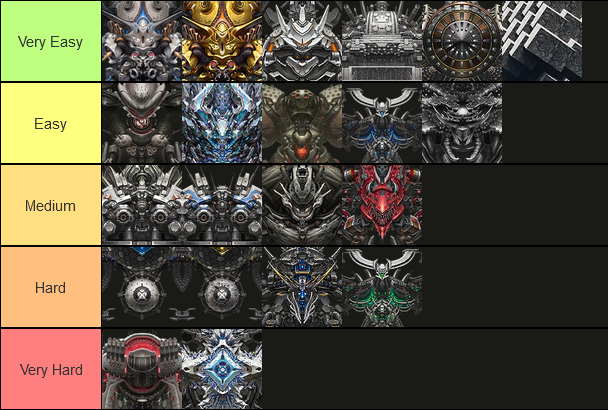
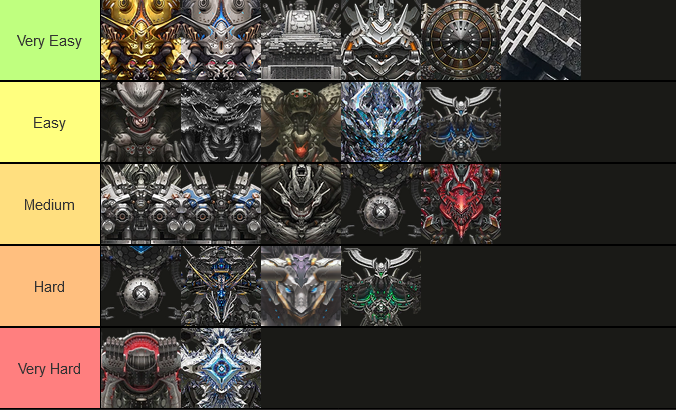
May Changes including March after Late Game

diff --git a/docs/lategame.md b/docs/lategame.md
@@ -1,10 +1,11 @@
 # **Late Game**  
 
-**This will be a pretty quick section,** **as the Late Game stage happens between the time you reach synchro level 241+ and when you clear the Chapter 22-36 Boss <span class="color-red">Nihilister</span>,** **a second time**. **This then unlocks the new Interception, the [Anomaly](#anomaly-interception-ai) difficulty.**
+The Late Game stage is between the time you reach synchro level 241+ until Chapter 22-36 Boss <span class="color-red">Nihilister</span>, is defeated a second time. After that, it's the end game, when the new Interception, [Anomaly](#anomaly-interception-ai), is unlocked. 
 
 ### **Mother Whale, Chapter 21 Boss** 
 
-You probably didn’t feel any real challenge, at least not up until now. Synchro levels or combat power won't solve this one. Meet the **Mother Whale**, the second hardest boss in the game. This boss **needs** you to play manually.  
+You probably didn’t face any real challenge, not up until now. Synchro levels or combat power won't solve this one. Meet the **Mother Whale**, the second most manual heavy boss in the game. **This boss will force you to play manually.**
+
 
 ![motherwhale](media/motherwhale.png ':size=300 :no-zoom')
 
@@ -81,6 +82,8 @@ Elemental shield is a mechanic of Raptures that protects themselves from Nikkes 
 
 As introduced by Mother Whale, elemental shields will be commonly found on later stages in the game, mainly in Raids. Unlike Mother Whale's elemental shield, which can be removed by killing the mobs she summons. Elemental shields can also be destroyed by breaking the QTE with their respective elemental weakness. This makes elemental weakness very important for teambuilding in Raids when you are bringing specific Nikkes. Furthermore, elemental damage is a crucial stat for later stages and in Raids to deal even more damage. 
 
+![Crystal Chamber Elemental QTE](media/elementalqte.png)
+
 Elemental Damage is important because this stat is one of the most valuable in OL (Overload) gears. You can improve your damage by up to 116% just from the OL stats (29% per gear) alone. Pairing that with cubes that can improve your Elemental Damage by 8.48% (level 5 cube) to 19% (level 15 cube) respectively. The game has a lot of calculations for Elemental Damage that it even has its own separate damage calculation/formula.
 
 As per default, your Nikke will receive 10% Elemental Damage bonus stat, which then can be improved by equipping cubes and getting OL (Overload) stats, which on paper shows that you can receive up to 145% of Elemental Damage. These stats exclude the skills of the Nikke. This is why Elemental Damage is a big help when you’re trying to push as far as you can in campaign stages (normal/hard) with deficits.
@@ -107,7 +110,7 @@ Range: Far
 
    *Spawns Glass Slippers to buff his DEF (Courtesy: Kontossis on youtube)*
 
-   It comes back and **<span class="color-red">buffs itself with 360% DEF from the slippers</span>**. This defense buff makes you hit like a wet noodle. First, it shoots a crystal that deals AoE damage, then it will spawn the slippers and go into attack mode. You can tell when the slippers are going to attack when they start glowing blue. They have to be destroyed by **<span class="color-red">a single strong shot</span>.** Repeat this 4 times until all the slippers are destroyed. Each shot removes 1 layer (90%) of the DEF buff.
+   It comes back and **<span class="color-red">buffs itself with 360% ((90*4)%) DEF from the slippers</span>**. This defense buff makes you hit like a wet noodle. First, it shoots a crystal that deals AoE damage, then it will spawn the slippers and go into attack mode. You can tell when the slippers are going to attack when they start glowing blue. They have to be destroyed by **<span class="color-red">a single strong shot</span>** to remove 1 layer (90%) of DEF buff. Repeat this 4 times until all the slippers are destroyed. Each shot removes 1 layer (90%) of the DEF buff.
 
    If you can’t destroy slippers, just shoot to stun it because slippers attack mode deals huge damage to your Nikke (not recommended if your Nikke is CP high diff).   
      
@@ -180,37 +183,51 @@ The easiest boss that you encounter in AI. His main body is in the middle. His t
 
 1. **First phase**  
    Destroy the front tentacle as fast as you can. If you ignore this, he slaps all your Nikkes. The tentacles are tanky, but fortunately his front tentacle is a core, so you can deal bonus damage to it. The attack pattern will be:  
-   \- **Tentacle slaps, twice**  
+   \- **Tentacle slap, twice**  
+   Tentacle slap hits all Nikkes, and it pierces the cover, so if you bring an Electric Nikke, you have to destroy it because usually insta-death to Electric Nikke. You can deal bonus damage because the front tentacle part has a core. 
    \- **Throwing rocks**  
-   You can time Crown’s burst to block this attack, or if you don’t bring a shielder, just take cover.  
+   This attack lets Kraken throw rocks to your Nikke, but it doesn't pierce the cover. We suggest bringing a shielder Nikke like Crown/Tia to block these attacks, so you don’t have to take cover. Time your shielder burst to block this attack.
+   
+   If you don’t bring a shielder, but bring a healer, you can just tank this attack (if your healer isn’t electric). If you don’t bring shielder Nikke and healer, just take cover.
+
    \- **Elemental QTE**  
-   This attack sequence happens twice, after that, it will expose the core on his main body and dive. When he dives, special interruption.  
-     
-   In this phase, I suggest you aim for the front tentacle when they appear, core damage is your advantage to deal great damage.   
+   This attack can wipe all of your Nikke, so you have to destroy QTE. Manualling your Wind Nikke to aim when off burst.
+
+
+   In this phase, I suggest you aim for the front tentacle when they appear, core damage is your advantage to deal great damage. 
+
+
+   This attack sequence happens twice, after that, it will expose the core on his main body and dive. When he dives, special interruption.
 2. **Second phase**  
    Same as the first phase, but its front tentacle will be a lot squisher, but still needs full burst to destroy fast. Its back tentacle will shoot your Nikke so you have to destroy it too.   
      
-   What you do is aim on the core of the main body while destroying the front tentacle when he’s wiggling his tentacle. Destroy the back tentacle when off burst to prevent him shooting your Nikke. Back tentacle targets random Nikke so he may shoot your support or your main DPS, the problem is if you bring an Electric Nikke (usually Naga) then he decides to shoot down that Electric Nikke.
+   What you do is aim on the core of the main body while destroying the front tentacle when he is wiggling his tentacle. Destroy the back tentacle when off burst to prevent him shooting your Nikke. Back tentacle targets random Nikke so he may shoot your support or your main DPS, the problem is if you bring an Electric Nikke (usually Naga) then he decides to shoot down that Electric Nikke.
 
 **Team Building**  
 Burst 1 and 2 will be Liter and Crown, then you can choose Wind Burst 3 Nikke as main damage. 
 
 1. Sweaty: Scarlet Black Shadow with her assistant, Alice. Flex is Naga. If you bring Naga, you have to destroy all the parts.  
 2. Boomer Finger: Scarlet Black Shadow with Sakura: Bloom in Summer. Flex will be Naga. you can try Noir as an alternative Naga and make the run less sweaty.  
-3. SG team with Noir and Guilty works against this squid, with Blanc as healer. They can deals decent damage because of the big target of the main body.
+3. SG team with Noir and Guilty works against this squid, with Blanc as healer. They can deal decent damage because of the big target of the main body.
 
 **<span class="color-orange">Ultra</span>** 
 
 This Ultra has a destructible core unlike campaign counterparts, so his core isn’t permanent (because dev knows this boss is too biased as Red Hood’s punching bag). He never moves so basically acts like a punching bag for Pierce-type Nikkes. 
 
+Ultra parts can be hit using pierce by just hitting the core. You can deal damage 4 times by just hitting the core using piercers when his core and poison chamber parts are active.  And Ultra range is far, so perfect for snipers Nikke.
+
 **Attack Pattern**:
 
 **Phase 1:**
 
-- MG attacks, targets highest ATK Nikke  
+- MG attacks, targets highest ATK Nikke
+   Classic MG attack, but usually if your Nikke is well invested, this attack can’t hurt your Nikke. You can manually let the targeted Nikke take cover if not well invested or it targets Water Nikke.
 - QTE (Elemental Shield)  
+   If you ignore, Ultra will blow all your Nikke, dealing huge damage. Shoot QTE to cancel it.
 - AoE stun, can be blocked by shield  
+   This attack can be blocked by shield, timing your shield burst (Crown/Tia) when he’s ready to stomp.
 - Spits poison (DoT)
+   I suggest you taking cover because this DoT is no joke if you don’t bring a healer. This attack can kill your Water Nikke fast. 
 
 
 This attack occurs twice, then he sheds his skin and enters Special Interruption
@@ -218,16 +235,23 @@ This attack occurs twice, then he sheds his skin and enters Special Interruption
 **Phase 2:**
 
 - Flings poison if the parts aren’t destroyed (DoT)  
+   Destroy parts fast to cancel this attack, because DoT is not a joke when it hits Nikke. 
 - AoE stun  
+   Same as first, timing your shield
 - Spits poison (DoT)
+   Same as first phase too, take cover
 
-It will restore his core at phase 3, 5, 7 (need reference), so be prepared to manage your full burst for this. 
+It will restore his core at stages 2, 4, 6 and 8, so be prepared to manage your full burst for this. At stage 2, the respawning core overlaps the previous one (it’s the only time a respawning core overlaps the previous one). That means if the first core wasn’t destroyed by the time you hit stage 2, the core gets back to 100% hp. This only happens on stage 2. If you don’t destroy other stage cores in time, the next stage cores don’t overlap them. So if for example, you don’t destroy the stage 4 core by the time you hit stage 6 and then destroy it after you hit stage 6, the core will not respawn or get back to 100% hp so you lose one full core. 
+
+Stage 4 core is the second one that has two mechanics in it: first mechanic is if you don’t hit stage 4 within specific frame (when he starts charging his stun attack, he shouts, if you don’t get to stage 4 before his shout stops), the stage 4 core will still respawn but it will drop its max hp by 80-85% thus dropping your damage a lot. You can either stall his first triple QTE to delay his charging attack here if you don’t have the damage to get to stage 4 fast, or just damage race to stage 4 fast if you got the damage to not allow the core hp reduction (another option is to crit fish with Maxwell and hope her burst crits there). 
+
+The second mechanic of stage 4 core is that it, along with every other core (stage 6 and stage 8) and the sacs increase their HP by a lot so it gets a lot easier to shoot them without worrying you can accidentally destroy them with Red Hood or something before Maxwell bursts for example. His AoE spit poison attack can be tanked by a decent shielder up until stage 8. At stage 8, his damage increases enough that the spit breaks the shield so you need to take cover (awesome21snake: 2024).  
 
 You can put all Iron Nikkes in your team. For example, a team consists of Liter and Crown as burst 1 and 2, for burst 3 DPS, you pick Red Hood, then choose between Snow White or Maxwell (which have higher Elemental Damage OL line). For flex you can pick Helm: Aquamarine to amplify your team damage. If you need survival, you can take out one of the Iron-type Nikkes, for example Naga is a good choice for extra core damage.
 
 **<span class="color-purple">Mirror Container</span>**
 
-Basically it's the Mirror Container in Chapter 32 (read above), but easier. Core is permanent, so you can deal more damage. Glass Slippers only show up in 2 cycles. The most important difference is that **it will not restore Slippers that buff DEF by 360% when going into its Destruction Mode.** 
+Basically it's the Mirror Container in Chapter 32 (read above), but easier. Core is permanent, so you can deal more damage. Glass Slippers (replica) only shows up in 2 cycles. The most important difference is that **it will not restore Slippers that buff DEF by 360% when going into Destroy Mode. **
 
 Team Building gameplay will be the same as the Mirror Container Chapter 32 Boss. Ein with Anis: Sparkling Summer is your best choice against it. Example comp would be Burst 1 and 2 Rouge with Crown and if you want to optimize Anis’s damage, you can put Liter. Flex will be Exia with her Favorite Item or Naga.
 
@@ -239,12 +263,21 @@ This spider likes to call mobs during the fight. These mobs distract your Nikke 
 
 Hardest boss that you can encounter in AI. Has an attack that is unavoidable, so your iron supporters (Liter and Crown) have a high chance of dying. Has the highest base Defense stats and moves around a lot so hitting the core can be difficult.
 
+Problem is, our best fire DPS Nikkes besides Alice and Modernia for now (November 2024) are Nikke from Evangelion collab (Asuka, Rei). If you skip them, then your option will be limited until dev introduces another good fire DPS again.  
+
 **Tyrant-class Boss Tier List**
 
 ![tyrantbosstier](media/tyrantbosstier.png)
 
-- Very Easy: Generic attack (laser, projectiles, interceptable AoE attack), Usually no need healer to do good run. Canceling their gimmicks usually disables them completely. Basically punching bag Rapture. Auto friendly, you need manual aim to shoot QTE circles. Can run with generic team (all weapons) with 1 element strongest included.  
-- Easy: Generic attack, boss is punching bag but has 1 gimmick that can’t be disabled, but can be dodged. Suggested to bring healer against this boss, but it’s okay if not especially if the attack is cover dependent. Auto friendly, you need manual aim to shoot QTE circles. Can run with generic team (all weapons) with element strongest included.  
-- Medium: Generic attack, Has gimmicks that could be annoying but manageable. Bring healer or cover repair to solve the gimmick. Not auto friendly. Can run with generic team (all weapons) with element strongest included.  
-- Hard: has 1-2 annoying gimmick skills that need some treatment. Healer is necessary to deal with their gimmicks. Do unavoidable attacks that hurt your Nikke. Not Auto friendly. Can run a generic team, but suggested bringing certain Nikke to deal with their gimmick for easier run.  
-- Very Hard: has many gimmick attacks that you have to run a certain Nikke to deal with. Even if your Nikke level is higher, they can kill you if you don’t know how to deal with it. Not auto friendly (obviously). Certain Nikke is needed to deal with this kind of Rapture.
+As per November 2024:
+
+- Very Easy: Generic attacks (laser, projectiles, interceptable AoE attack) and usually won’t be needing a healer to do a good run. Canceling their gimmicks usually disables them completely. Basically a punching bag Rapture. Auto friendly, you might need to manually aim at the QTE circles. Can run a generic team (all weapons) with at least 1 elemental advantage included.
+
+- Easy: Generic attacks, same as above, boss is also a punching bag but has 1 gimmick that can’t be disabled, HOWEVER can be dodged. Suggested to bring healer against this boss, but it’s fine even if you don’t as the attack is cover dependent as well. Somewhat auto friendly and you still need to manually aim to shoot QTE circles. Can run with a generic team (all weapons) with elemental advantage included.
+
+- Medium: Generic attacks and has gimmicks that can be annoying but manageable. Bring a healer or cover repairer to solve this gimmick. Not as auto friendly as the others, but you can run a generic team (all weapons) with elemental  advantage included.
+
+- Hard: this has 1-2 annoying gimmick skills that need some planning. Healer is necessary to deal with their gimmicks. Does unavoidable attacks that deal a lot of damage. Not Auto friendly but you can run a generic team. It’s advisable to bring certain Nikkes to deal with their gimmick for an easier run.
+
+- Very Hard: has a lot of gimmick attacks that forces you to run certain Nikkes to deal with them. Even if your Nikke level is higher, they can still kill you if you don’t know how to deal with it. Very much NOT an auto friendly stage. Certain Nikkes are needed to deal with this kind of Rapture.
+

diff --git a/docs/raids.md b/docs/raids.md
@@ -1,6 +1,6 @@
 # **Raids**
 
-NIKKE’s Major Server ranking content
+NIKKE’s Major Server Ranking Content 
 
 **Solo Raid (SR)** follows an individual ranking system.The rewards vary from **gems, dolls and cube materials.** Depending on your rank, you can also receive a corresponding **frame**.
 
@@ -28,7 +28,7 @@ As mentioned in the **Elemental Damage and Elemental Shield section of the guide
 
 Building teams that favor elemental damage is necessary because elemental damage is a big contributing factor in gaining higher scores.
 
-Keep in mind that you might need to learn some of the boss’ mechanics before building teams. You might encounter an easy mode boss that does need healer in the team, or you might come across a difficult boss that needs you to bring certain Nikke weapon/skill types to beat it with.
+Keep in mind that you might need to learn some of the boss’ mechanics before building teams. You might encounter an easy mode boss that doesn’t need a healer in the team, or you might come across a difficult boss that needs you to bring certain Nikke weapon/skill types to beat it with.
 
 **Challenge Mode**
 
@@ -40,22 +40,25 @@ This is the **REAL** Endgame content that Nikke provides for now. Basically, you
 
 ## **Union Raid** 
 
-Same as Solo Raid, Union Raid is a monthly event. Your Union will encounter 5 types of Raptures (3 Lord-class and 2 Tyrant-class). These bosses need to be killed 10 times each with all your Union members.
+Same as Solo Raid, Union Raid is a monthly event. Your Union will encounter 5 types of Raptures (3 Lord-class and 2 Tyrant-class). There will be levels, which once the 5 bosses of each level are defeated, the next level opens, and you need to repeat the process until level 10. With the December 2024 update, Union Raid HARD mode was added, changing a couple of things.
 
-Each member receives 3 attempts per day. It’s best to coordinate with your Union to see who attacks what boss so you can min max the damage spread and get optimum clear times. .
+It consists of brackets based on what day your Union was able to full clear all bosses. The day you clear all bosses is very important, altho there is no haste, the Union should aim to clear it before the next reset. If the Union succeeds in doing so, on the next reset, the hard mode will be open, with the same bosses, with increased HP DEF and ATK.
 
-It starts every **Friday, the third/fourth week of the month at 12:00 PM UTC+9** (Korean Time) until **Thursday, a week later at 05:00 AM UTC+9. This can change so it’s best to keep an eye out for announcements from your guild.**
+Up to 3 attacks per member. It’s best to coordinate with your Union to see who attacks what boss so you can min max the damage spread and get optimum clear times. There are a total of 3 levels, with the last boss of the third level having infinite HP, just like Solo Raid bosses.
 
-This mode is just a speedrun competition for top ranking. If you aim for higher ranks, piloting accounts will be necessary for some Unions, especially competitive ones.
+It starts every **Friday, on the third/fourth week of the month at 5:00 AM UTC+9** (Server daily reset) until **Thursday, a week later at 05:00 AM UTC+9.** This can change so it’s best to keep an eye out for announcements from your guild.
+
+You can check the best teams for each Union Raid [here](https://docs.google.com/spreadsheets/d/1LXHNQI93rWhk_2YmepnDfx4x8FAxHnQ4w9_vunhWryE/edit?rm=minimal&gid=2142581624#gid=2142581624).
 
 ## **Coop** 
 
-Time limited operation, with friends or randoms. Unfortunately, the UI for coop is pretty outdated, and you won’t even see it if you don’t look for it.  
+A time limited event that you can do with friends or random people. Unfortunately, the UI for coop is pretty outdated so in order for you to access it, you have to find the Coop tab as shown below. 
 
 ![coopbanner](media/coopbanner.png)
 
-It will appear on the cards below your commander icon and on the ![eventbannericon](media/eventbannericon.png)
 
-Pretty simple mode, and negligible ranking rewards. Most of the time, you will go AFK and just wait for the battle timer to run out. Simply participating is enough to receive all rewards needed to buy everything on the Recycling Shop.  
+It’s usually below your commander icon and/or can be accessed on the ![eventbannericon](media/eventbannericon.png) tab.
+
+Pretty simple mode and negligible ranking rewards. Most of the time, you will go AFK and just wait for the battle timer to run out. Simply participating is enough to receive all rewards needed to buy everything on the Recycling Shop
 
 ![coopelement](media/coopelement.png)

diff --git a/docs/endgame.md b/docs/endgame.md
@@ -1,13 +1,29 @@
 # **Endless End Game**  
 
-Tired? At least, we are!   
-After all we’re covered, there is only one thing left to do
+Tired? We’re sure you are! 
+After all we’ve covered, there’s only one thing left to do!!!
 
-## **Hard Stages, to the Moon!** 
+## **Hard-Stages!** 
 
-Normal stages, with “hard” on the name!.  
-They are the same stages as their normal counterparts, the only difference is the increased combat power requirement.   
-As of november/24, Hard Stage 34-38 Boss is the highest stage available, cleared at synchro 521 by some amazing players.  
-Most hard stage clears are posted on youtube, simply by searching the stage x-x, you should probably find a few.
+Normal stages, with “hard” on their name!
+They are the same stages as their normal counterparts, the only difference is the increased combat power requirement. 
+As of November 2024, Hard Stage 34-38 Boss is the highest stage available, cleared at synchro 521 by some amazing players.
+Most hard stage clears are posted on youtube, put in Hard stage X-X and you should probably find a few clear videos on it.
 
 The MegaGuide [Youtube Channel](https://www.youtube.com/@nikkemegaguide) also has some hard stage clears, go check it out!
+
+**Volleyball**
+![Volleyball](media/volleyball.png)
+
+After the November 2024 update, they introduced a new rapture named Volleyball. This pesky ball will hinder your progress in chapter 33 and 34, as we said in Progression Wall.
+
+On taking a hit - any hit, from one bullet, they will stop prepping kamikaze attacks and start zig-zagging while pulverizing someone on your team. While they're in motion for any reason, they will take only 1 damage. This includes the zig-zag and when they're not yet setting up the kamikaze attack (red lights is their prep).  (Juratus:2024)
+
+To counter them, there’s 3 way to go about it:
+
+- Distribute Damage / AoE attack. 
+    They will attack you after you touch them, then you have to attack without touching them directly. Distribute damage has a mechanic that ignores the hitcount mechanic. Chapter 33-34 are wind weak, so Scarlet Black Shadow is the best Nikke to counter them.
+- Strong sniper to kill them in 1 shot.
+    They will receive damage from only 1 shot from any pellets. The problem is when you full burst, you would have to command other Nikke to take cover.
+- Ignore them and let them jump. 
+    This method needs you to dodge when they start jumping. You can put all the Nikke to take cover or just build a shield to block it.

diff --git a/docs/gamecontent.md b/docs/gamecontent.md
@@ -34,8 +34,7 @@ This is the new player event which is pretty common in all gacha games, complete
 
 ![alicediary](media/alicediary.png)
 
-Alice diary is a limited event that rewards you with **<span class="color-pink">Alice</span>** when you clear chapter 11, and lots more rewards as the days go on.   
-**It is a time limited event and unfortunately, ends on november 31, 2024\.**
+Alice diary is a limited event that rewards you with **<span class="color-pink">Alice</span>** when you clear chapter 11, and lots more rewards as the days go on.
 
 ### **BlaBla menu**
 
@@ -108,9 +107,9 @@ Just like the campaign, the events are also divided in **Normal and Hard stages.
 
 **<span class="color-pink">With the addition of Exchange Shop, Battle Data Sets and RE-Energy are a must buy. You can trade Battle data for dust cores and RE-Energy for random consoles</span>**
 
-**<span class="color-green">x30 core dust is what you will buy after everything is sold out</span>**
+**<span class="color-green">x30 core dust is good only in the early game, when you use very little core dust to level. After the 160 wall, you might only buy credits.**
 
-**<span class="color-orange">On the last day, after you bought core dust and still have event currency, you can buy the 2.000 credits. Even if you don’t, after the event’s end the currency is converted into credits and sent to your mail.</span>**
+**<span class="color-orange">After the event’s end the currency is converted into credits and sent to your mail, so do not worry if you didn’t use all event currency after everything is sold out.</span>**
 
 ![eventshopui](media/eventshopui.png)
 

diff --git a/docs/changelog.md b/docs/changelog.md
@@ -1,10 +1,11 @@
 # ChangeLog
 
-V0.9 Additions: MegaGuide release, almost all sections finished, [Exchange Shop guide](gamecontent.md#shopping-guides) and [Event shop](gamecontent.md#event-shop) updated.
-V0.8 Additions: Final stages of writing guides  
-V0.7 Additions: Changed file to public; Format color to “dark mode”  
-V0.6 Additions: Overall change for easier navigation; added new sections; old sections revisited  
-V0.5, Additions: Anomaly interception; Rouge in team building  
 V0.4, Additions: [Progression walls](progressionwalls.md#progression-walls), [Collection items guide](gamecontent.md#collection-and-favorite-items)  
+V0.5, Additions: Anomaly interception; Rouge in team building
+V0.6 Additions: Overall change for easier navigation; added new sections; old sections revisited
+V0.7 Additions: Changed file to public; Format color to “dark mode”
+V0.8 Additions: Final stages of writing guides
+V0.9 Additions: MegaGuide release, [Exchange Shop guide](gamecontent.md#shopping-guides) and [Event shop](gamecontent.md#event-shop) updated, Overclock guide added, Union Raid guide and Favorite item targets updated as of January 2025.
 
-And this is the end of it... Thank you for reading\! 🤘 See ya in the next update\! 🤘
+And that is the end of it... Thank you for reading! 
+🤘 See ya in the next update! 🤘

diff --git a/docs/introduction.md b/docs/introduction.md
@@ -26,7 +26,7 @@ Aside from the MLEM tier list, we don't plan to make one for character usefulnes
 |[Keripo’s PVP MatrixV2](https://docs.google.com/spreadsheets/d/15aPYfbMCB3JSYYgygwMvSLvyPUd_AQ0EhKawRXMsQgQ/edit?gid=1514064848#gid=1514064848)|
 |[tistree’s Union Raid Teams Guide](https://docs.google.com/spreadsheets/d/1LXHNQI93rWhk_2YmepnDfx4x8FAxHnQ4w9_vunhWryE/edit?rm=minimal&gid=1842582049#gid=1842582049)|
 |[Enikk.app (Raid database)](https://enikk.app/soloraid)|
-|[Shorty97 Progression Calculator V4.1 (originally khanonners’s)](https://docs.google.com/spreadsheets/d/1I5X8FkBDPCTyrLNrgE-09sS91xSrMDMcAO9Y0vwXotU/edit?gid=2101341028#gid=2101341028)|
+|[Shorty97 Progression Calculator V4.3 (originally khanonners’s)](https://docs.google.com/spreadsheets/d/1two1ZE6B9bUUxUipOm8ME0Lw4rkLppJE9t9250xh70w/edit?gid=2101341028#gid=2101341028)|
 |[Shorty97 OL calculator](https://docs.google.com/spreadsheets/d/1EHfhO7kO_-00jcSAQEMUaRQJWLzwijQjq1-WHRSmk-c/edit?gid=0#gid=0)|
 |[skuqre.’s FontGenerator (used in the image above!)](https://skuqre.github.io/nikke-font-generator/)|
 |[Sky’s Union Raid/Solo Raid Teams Guide](https://docs.google.com/spreadsheets/d/1zE11XTPotgn9XhhhvxCvUu-ZeaWlGUQgwG8wg1Gtf0g/htmlview?rm=minimal)|

diff --git a/docs/earlygame.md b/docs/earlygame.md
@@ -27,7 +27,7 @@ You can check what element will have advantage in the **<span class="color-red">
 You may use **N102.** She is a <span class="color-purple">purple (SR)</span> rarity Nikke that buffs your whole team attack, and you will probably acquire her when you do your tutorial pull.
 
 Only use SSR burst 1 Nikkes that have burst reduction skills over her, in order:
-Liter \> D: Killer Wife \> Rouge \> Dorothy \> Volume
+Rapi: Red Hood \> Liter \> D: Killer Wife \> Rouge \> Dorothy \> Volume
 
 Tia is a special case, as she **<span class="color-red">needs</span>** to be paired with Naga, a burst 2 nikke, as most of her skills need naga to be activated, along with another **burst 1 nikke,** because her burst skill re-enters burst phase 1\. <span class="color-red">If you use Tia as the only burst 1 in your team, you will not be able to do a full burst.</span> **The same applies to Alice: wonderland bunny and Rupee: Winter Shopper;** they cannot be used as the only burst 1 either.
 
